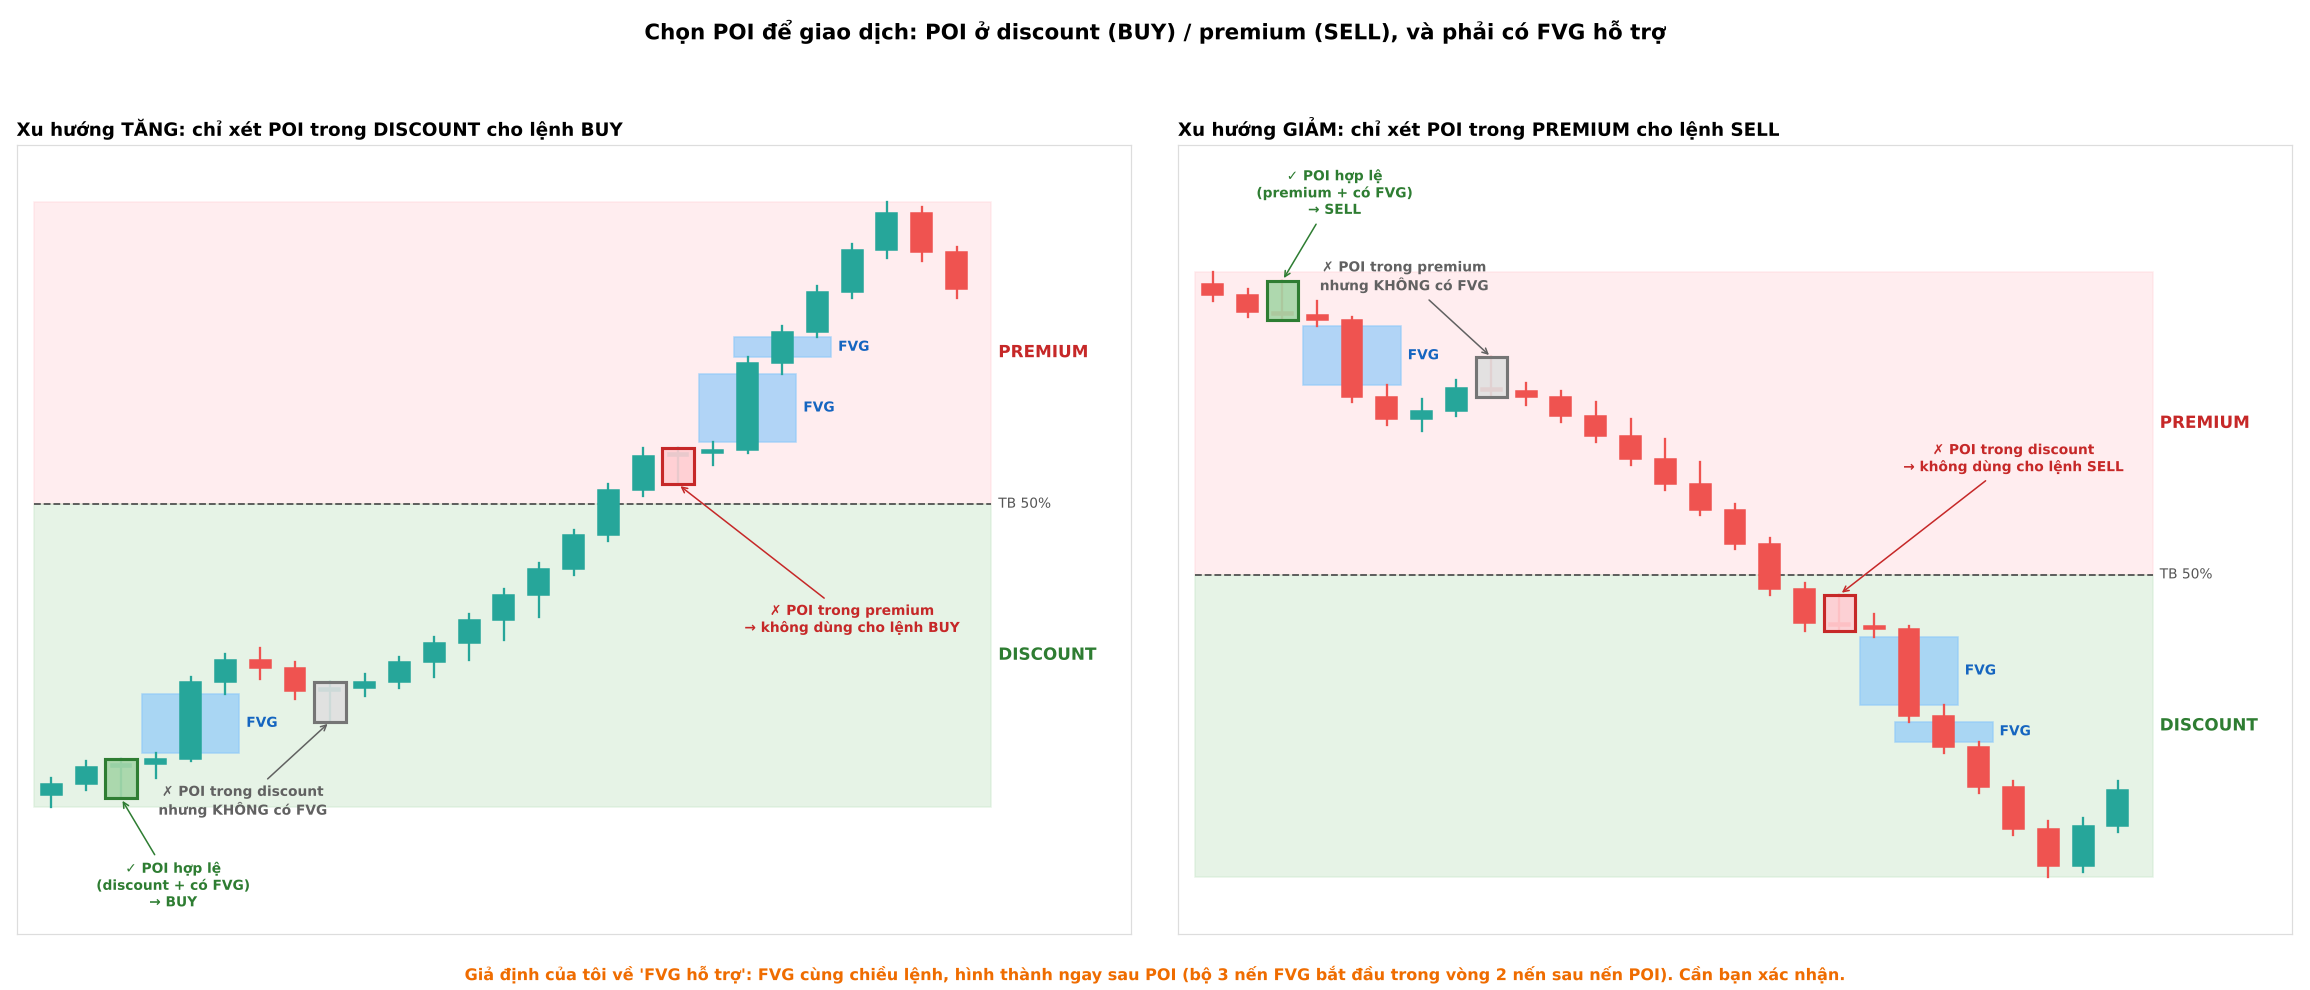
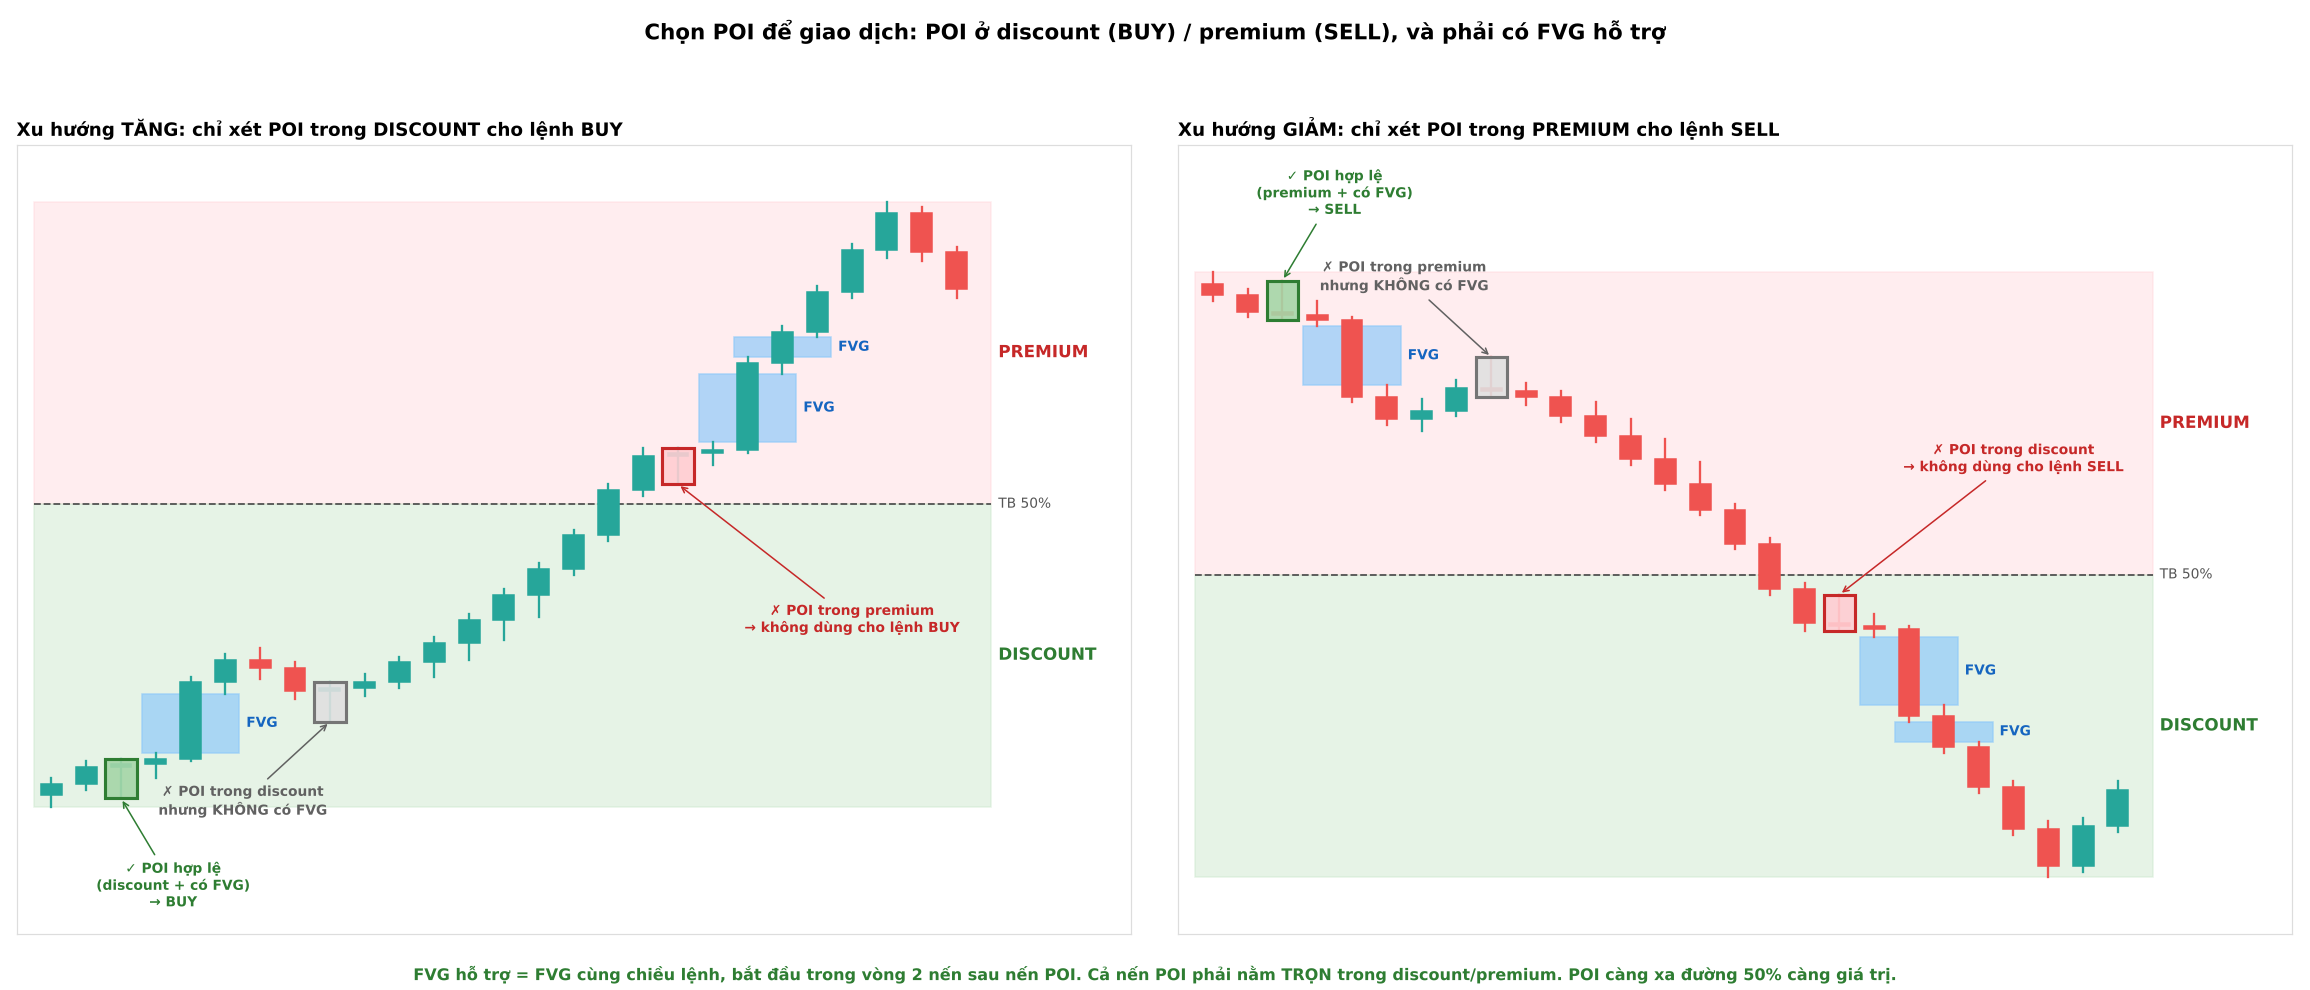
POI: chốt FVG hỗ trợ, POI nằm trọn trong vùng, càng xa 50% càng giá trị
Claude-Session: https://claude.ai/code/session_01QDQqkxbAsnss6apbWZAP33

Changed region(s): [[0.187, 0.9697, 0.8104, 1.0]]

diff --git a/knowledge/03-setup.md b/knowledge/03-setup.md
@@ -185,15 +185,15 @@ Ví dụ chart thật: `examples/01-dinh-day-xauusd-h4.jpg`
 - **Vùng POI = toàn bộ nến 1, tính cả râu** (từ high đến low).
 - Nhiều nến liên tiếp cùng đóng cửa trong vùng → **POI vẫn chỉ là nến 1**, không mở rộng.
 
-**Chọn POI để giao dịch (người dùng đã giảng, chờ duyệt hình `examples/24-poi-hop-le.png`):**
+**Chọn POI để giao dịch (đã xác nhận, xem `examples/24-poi-hop-le.png`):**
 - Trong một con sóng có rất nhiều POI. **Chỉ xét:**
   - POI ở vùng **DISCOUNT** cho lệnh **BUY**.
   - POI ở vùng **PREMIUM** cho lệnh **SELL**.
-- POI đó **cần có FVG hỗ trợ**.
+- POI đó **cần có FVG hỗ trợ** = FVG **cùng chiều lệnh**, hình thành **ngay sau POI** (bộ 3 nến tạo FVG bắt đầu trong vòng 2 nến sau nến POI).
+- **Cả nến POI phải nằm TRỌN** trong discount (BUY) / premium (SELL). POI cắt ngang đường 50% thì không xét.
+- **POI càng cách xa đường cân bằng 50% thì càng giá trị.**
 
 **Chưa chốt:**
-- "FVG hỗ trợ" nghĩa là gì? Giả định của Claude: FVG cùng chiều lệnh, hình thành ngay sau POI (bộ 3 nến FVG bắt đầu trong vòng 2 nến sau nến POI).
-- POI "ở discount": cả nến POI phải nằm trong discount, hay chỉ cần một phần? (Claude đang lấy điểm giữa của nến POI.)
 - Khi nào POI hết hiệu lực.
 
 ### 7.1 FVG (Fair Value Gap)
